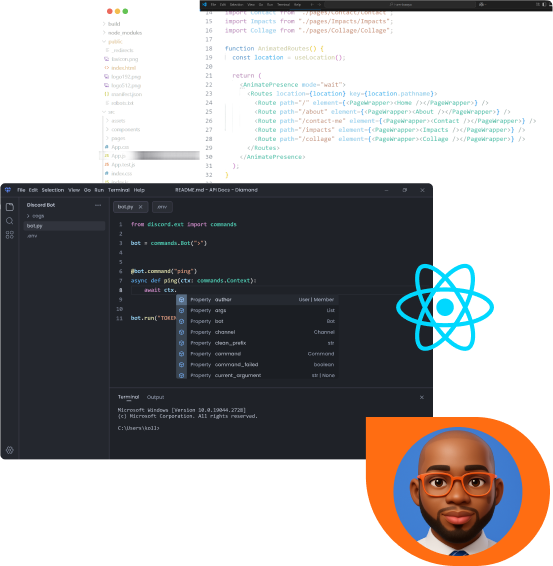
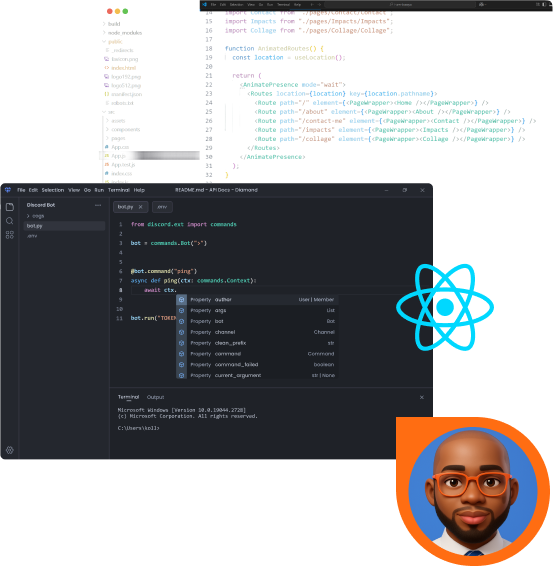
adjusted section 1

Changed region(s): [[0.6456, 0.7208, 0.9837, 1.0]]

diff --git a/src/components/HomeComponents/Section1/Section1.jsx b/src/components/HomeComponents/Section1/Section1.jsx
@@ -48,9 +48,9 @@ export default function Home() {
 
   return (
     // <div className="fixed top-0 left-0 w-full h-screen z-0">
-    <div className="w-full h-screen z-0">
-        <div className={style.section}>
-            <div className={`${style.rippleBackground} bg-[url('/public/bggg-m2.png')] md:bg-[url('/public/bggg.png')] px-4 lg:px-20`} ref={rippleRef}>
+    <div className={`${style.rippleBackground} w-full bg-[url('/public/bggg-m2.png')] lg:bg-[url('/public/bggg.png')] min-h-screen px-4 lg:px-20 z-0 bg-slate-400`} ref={rippleRef}>
+        <div className={`${style.section}`}>
+            <div  >
               <div className={` relative cursor-pointer flex items-center justify-center pt-36` } >
                 <div className={`  w-full`}>
                   <div className="-mb-6">
@@ -69,15 +69,16 @@ export default function Home() {
                       exit={{ opacity: 0, y: -10 }}
                       transition={{ duration: 0.5 }}
                       // className="p-4 bg-green-200 rounded"
+                      className="grid place-items-center"
                     >
                       <img className="hidden lg:block w-[70px] md:w-[140px] absolute right-[10px] md:right-[90px] top-96" src={Profile} alt="" />
-                      <img className=" block lg:hidden w-[140px] absolute top-72 left-1/2 transform -translate-x-1/2 -translate-y-1/2" src={Profile} alt="" />
-                      <div className="flex items-center justify-center h-screen w-full text-white -mt-12 lg:-mt-32 pointer-events-none">
+                      <img className=" block lg:hidden w-[140px] mt-20 " src={Profile} alt="" />
+                      <div className="flex items-center justify-center h-screen w-full text-white -mt-32 lg:-mt-32 pointer-events-none">
                         <div className={`${style.dmSans}  center`}>
-                            {/* <p className={`${style.dmSans} text-center text-xl mb-10 tracking-[6px]`}>Hi, I’m</p> */}
+                            {/* <p className={`${style.dmSans} text-center text-xl mb-2 lg:mb-10 tracking-[6px]`}>Hi, I’m</p> */}
                             {/* <h1 className="mb-4 text-center text-3xl md:text-6xl lg:text-9xl font-semibold italic tracking-[12px] lg:tracking-[28px] leading-[60px] lg:leading-[166px]">AKINBOLADE <br /> SALAKO</h1> */}
-                            <ScrambleText text="Hi, I’m" className={`${style.dmSans} block text-center text-xl mb-10 tracking-[6px]`} speed={120} delay={0.3} duration={5}/><br />
-                            <ScrambleText text="AKINBOLADE" className="mb-4 text-center block text-3xl md:text-6xl lg:text-9xl font-semibold italic tracking-[12px] lg:tracking-[28px] leading-[60px] lg:leading-[166px]" speed={120} delay={0.3} duration={5}/><br />
+                            <ScrambleText text="Hi, I’m" className={`${style.dmSans} block text-center text-xl mb-2 lg:mb-10 tracking-[6px]`} speed={120} delay={0.3} duration={5}/><br />
+                            <ScrambleText text="AKINBOLADE" className="-mb-5 lg:mb-4 text-center block text-3xl md:text-6xl lg:text-9xl font-semibold italic tracking-[12px] lg:tracking-[28px] leading-[60px] lg:leading-[166px]" speed={120} delay={0.3} duration={5}/><br />
                             <ScrambleText text="SALAKO" className="mb-4 text-center block text-3xl md:text-6xl lg:text-9xl font-semibold italic tracking-[12px] lg:tracking-[28px] leading-[60px] lg:leading-[166px]"speed={120}  delay={0.3} duration={2}/>
                             <p className="mb-4 text-center tracking-[4px] font-medium opacity-25">Or just <span className="font-semibold text-[#92FF90]">Salaks</span> for short</p>
                             <p className="mb-4 text-center tracking-[4px]">A <span className="text-xl text-[#FF9C12] font-extrabold">PRODUCT DESIGNER</span> turning complex ideas into simple, intuitive experiences.</p>
@@ -94,7 +95,7 @@ export default function Home() {
                       // className="p-4 bg-red-200 rounded"
                     >
                       <div className="mt-12">
-                        <div className="grid grid-cols-1 md:grid-cols-11 gap-4 items-center">
+                        <div className="grid grid-cols-1 md:grid-cols-11 gap-4 items-center mb-20">
                           {/* Right section: comes first on mobile, right side on desktop */}
                           <div className="order-1 md:order-2 md:col-span-4">
                             <div className="">
@@ -105,32 +106,68 @@ export default function Home() {
                           {/* Left section: comes second on mobile, left side on desktop */}
                           <div className="order-2 md:order-1 md:col-span-7">
                             <div className="flex justify-start items-start font-bold">
-                              <div className={`${style.sourceCode} text-left`}>
-                                <ScrambleText text="Hi!" className={`${style.sourceCode} text-[#FFE11D] block text-left text-3xl mb-0 tracking-[2px]`} speed={120} delay={0.3} duration={5}/><br />
+                              {/* For Large screen */}
+                              <div className={`${style.sourceCode} hidden lg:block text-left text-sm  lg:text-3xl`}>
+                                <ScrambleText text="Hi!" className={`${style.sourceCode} text-[#FFE11D] block text-left  mb-0 tracking-[2px]`} speed={120} delay={0.3} duration={5}/><br />
                                 <div className="flex">
-                                  <ScrambleText text="I'm {" className={`${style.sourceCode} text-[#ffffff] block text-center text-3xl mb-0 tracking-[2px]`} speed={120} delay={0.3} duration={5}/><br />
-                                  <ScrambleText text="highly_technical" className={`${style.sourceCode} text-[#4b8de9] block text-center text-3xl mb-0 tracking-[2px]`} speed={120} delay={0.3} duration={5}/><br />
-                                  <ScrambleText text="} and" className={`${style.sourceCode} text-[#ffffff] block text-center text-3xl mb-0 tracking-[2px]`} speed={120} delay={0.3} duration={5}/><br />
+                                  <ScrambleText text="I'm {" className={`${style.sourceCode} text-[#ffffff] block text-center  mb-0 tracking-[2px]`} speed={120} delay={0.3} duration={5}/><br />
+                                  <ScrambleText text="highly_technical" className={`${style.sourceCode} text-[#4b8de9] block text-center  mb-0 tracking-[2px]`} speed={120} delay={0.3} duration={5}/><br />
+                                  <ScrambleText text="}, and" className={`${style.sourceCode} text-[#ffffff] block text-center  mb-0 tracking-[2px]`} speed={120} delay={0.3} duration={5}/><br />
                                 </div>
                                 <div className="flex mt-2">
-                                  <ScrambleText text="while (" className={`${style.sourceCode} text-[#ffffff] block text-center text-3xl mb-0 tracking-[2px]`} speed={120} delay={0.3} duration={5}/><br />
-                                  <ScrambleText text="I’m ≠ engineer" className={`${style.sourceCode} text-[#D218DC] block text-center text-3xl mb-0 tracking-[2px]`} speed={120} delay={0.3} duration={5}/><br />
-                                  <ScrambleText text="), I know my way /" className={`${style.sourceCode} text-[#ffffff] block text-center text-3xl mb-0 tracking-[2px]`} speed={120} delay={0.3} duration={5}/><br />
+                                  <ScrambleText text="while (" className={`${style.sourceCode} text-[#ffffff] whitespace-nowrap block text-center  mb-0 tracking-[2px]`} speed={120} delay={0.3} duration={5}/><br />
+                                  <ScrambleText text="I’m ≠ engineer" className={`${style.sourceCode} text-[#D218DC] whitespace-nowrap block text-center  mb-0 tracking-[2px]`} speed={120} delay={0.3} duration={5}/><br />
+                                  <ScrambleText text="), I know my way /" className={`${style.sourceCode} text-[#ffffff]  block text-center  mb-0 tracking-[2px]`} speed={120} delay={0.3} duration={5}/><br />
                                 </div>
-                                <div className="flex mt-2">
-                                  <ScrambleText text="around && speak “" className={`${style.sourceCode} text-[#ffffff] block text-center text-3xl mb-0 tracking-[2px]`} speed={120} delay={0.3} duration={5}/><br />
-                                  <ScrambleText text="dev" className={`${style.sourceCode} text-[#FFE11D] block text-center text-3xl mb-0 tracking-[2px]`} speed={120} delay={0.3} duration={5}/><br />
-                                  <ScrambleText text="” fluently." className={`${style.sourceCode} text-[#ffffff] block text-center text-3xl mb-0 tracking-[2px]`} speed={120} delay={0.3} duration={5}/><br />
+                                <div className="flex mt-2 ">
+                                  <ScrambleText text="around && speak “" className={`${style.sourceCode} text-[#ffffff] block text-center  mb-0 tracking-[2px]`} speed={120} delay={0.3} duration={5}/><br />
+                                  <ScrambleText text="dev" className={`${style.sourceCode} text-[#FFE11D] block text-center  mb-0 tracking-[2px]`} speed={120} delay={0.3} duration={5}/><br />
+                                  <ScrambleText text="” fluently." className={`${style.sourceCode} text-[#ffffff] block text-center  mb-0 tracking-[2px]`} speed={120} delay={0.3} duration={5}/><br />
                                 </div>
-                                <ScrambleText text="I use Figma, Notion, and front-end " className={`${style.sourceCode} mt-1 text-[#FFFFFF] block text-left text-3xl mb-0 tracking-[2px]`} speed={120} delay={0.3} duration={5}/><br />
+                                <ScrambleText text="I use Figma, Notion, and front-end " className={`${style.sourceCode} mt-1 text-[#FFFFFF] block text-left  mb-0 tracking-[2px]`} speed={120} delay={0.3} duration={5}/><br />
                                 <div className="flex -mt-3">
-                                  <ScrambleText text="(React) " className={`${style.sourceCode} text-[#737374] block text-center text-3xl mb-0 tracking-[2px]`} speed={120} delay={0.3} duration={5}/><br />
-                                  <ScrambleText text=" - with ease." className={`${style.sourceCode} text-[#ffffff] block text-center text-3xl mb-0 tracking-[2px]`} speed={120} delay={0.3} duration={5}/><br />
+                                  <ScrambleText text="(React) " className={`${style.sourceCode} text-[#737374] block text-center  mb-0 tracking-[2px]`} speed={120} delay={0.3} duration={5}/><br />
+                                  <ScrambleText text=" - with ease." className={`${style.sourceCode} text-[#ffffff] block text-center  mb-0 tracking-[2px]`} speed={120} delay={0.3} duration={5}/><br />
                                 </div>
                                 <div className="flex mt-8">
-                                  <ScrambleText text="I designed & Developed (" className={`${style.sourceCode} text-[#ffffff] block text-center text-3xl mb-0 tracking-[2px]`} speed={120} delay={0.3} duration={5}/><br />
-                                  <ScrambleText text="this.site" className={`${style.sourceCode} text-[#22D71C] block text-center text-3xl mb-0 tracking-[2px]`} speed={120} delay={0.3} duration={5}/><br />
-                                  <ScrambleText text="too 😄" className={`${style.sourceCode} text-[#ffffff] block text-center text-3xl mb-0 tracking-[2px]`} speed={120} delay={0.3} duration={5}/><br />
+                                  <ScrambleText text="I designed & Developed (" className={`${style.sourceCode} text-[#ffffff] whitespace-nowrap block text-center  mb-0 tracking-[2px]`} speed={120} delay={0.3} duration={5}/><br />
+                                  <ScrambleText text="this.site" className={`${style.sourceCode} text-[#22D71C] block text-center  mb-0 tracking-[2px]`} speed={120} delay={0.3} duration={5}/><br />
+                                  <ScrambleText text=") too 😄" className={`${style.sourceCode} text-[#ffffff] block text-center  mb-0 tracking-[2px]`} speed={120} delay={0.3} duration={5}/><br />
+                                </div>
+                              </div>
+
+                              {/* For Mobile */}
+                              <div className={`${style.sourceCode} block lg:hidden text-left text-xl  lg:text-3xl`}>
+                                <ScrambleText text="Hi!" className={`${style.sourceCode} text-[#FFE11D] block text-left  mb-0 tracking-[2px]`} speed={120} delay={0.3} duration={5}/><br />
+                                <div className="flex">
+                                  <ScrambleText text="I'm {" className={`${style.sourceCode} text-[#ffffff] block text-center  mb-0 tracking-[2px]`} speed={120} delay={0.3} duration={5}/><br />
+                                  <ScrambleText text="highly_technical" className={`${style.sourceCode} text-[#4b8de9] block text-center  mb-0 tracking-[2px]`} speed={120} delay={0.3} duration={5}/><br />
+                                  <ScrambleText text="}, " className={`${style.sourceCode} text-[#ffffff] block text-left  mb-0 tracking-[2px]`} speed={120} delay={0.3} duration={5}/><br />
+                                </div>
+                                  <ScrambleText text="and" className={`${style.sourceCode} text-[#ffffff] block text-left  mb-0 tracking-[2px]`} speed={120} delay={0.3} duration={5}/><br />
+                                <div className="flex mt-2">
+                                  <ScrambleText text="while (" className={`${style.sourceCode} text-[#ffffff] whitespace-nowrap block text-center  mb-0 tracking-[2px]`} speed={120} delay={0.3} duration={5}/><br />
+                                  <ScrambleText text="I’m ≠ engineer" className={`${style.sourceCode} text-[#D218DC] whitespace-nowrap block text-center  mb-0 tracking-[2px]`} speed={120} delay={0.3} duration={5}/><br />
+                                  <ScrambleText text="), " className={`${style.sourceCode} text-[#ffffff]  block text-center  mb-0 tracking-[2px]`} speed={120} delay={0.3} duration={5}/><br />
+                                </div>
+                                  <ScrambleText text="I know my way /" className={`${style.sourceCode} text-[#ffffff]  block text-left  mb-0 tracking-[2px]`} speed={120} delay={0.3} duration={5}/><br />
+                                <div className="flex mt-2 ">
+                                  <ScrambleText text="around && speak “" className={`${style.sourceCode} text-[#ffffff] block text-center  mb-0 tracking-[2px]`} speed={120} delay={0.3} duration={5}/><br />
+                                  <ScrambleText text="dev" className={`${style.sourceCode} text-[#FFE11D] block text-center  mb-0 tracking-[2px]`} speed={120} delay={0.3} duration={5}/><br />
+                                  <ScrambleText text="”." className={`${style.sourceCode} text-[#ffffff] block text-center  mb-0 tracking-[2px]`} speed={120} delay={0.3} duration={5}/><br />
+                                </div>
+                                  <ScrambleText text="Fluently." className={`${style.sourceCode} text-[#ffffff] block text-left  mb-0 tracking-[2px]`} speed={120} delay={0.3} duration={5}/><br />
+                                <ScrambleText text="I use Figma, Notion, and  " className={`${style.sourceCode} mt-1 text-[#FFFFFF] block text-left  mb-0 tracking-[2px]`} speed={120} delay={0.3} duration={5}/><br />
+                                <div className="flex -mt-3">
+                                  <ScrambleText text=" front-end " className={`${style.sourceCode} mt-1 text-[#FFFFFF] block text-left  mb-0 tracking-[2px]`} speed={120} delay={0.3} duration={5}/><br />
+                                  <ScrambleText text="(React) " className={`${style.sourceCode} text-[#737374] block text-center  mb-0 tracking-[2px]`} speed={120} delay={0.3} duration={5}/><br />
+                                </div>
+                                  <ScrambleText text=" - with ease." className={`${style.sourceCode} text-[#ffffff] block text-left  mb-0 tracking-[2px]`} speed={120} delay={0.3} duration={5}/><br />
+                                  <ScrambleText text="I designed & Developed " className={`${style.sourceCode} text-[#ffffff] whitespace-nowrap block text-center  mb-0 tracking-[2px]`} speed={120} delay={0.3} duration={5}/><br />
+                                <div className="flex mt-8">
+                                  <ScrambleText text="(" className={`${style.sourceCode} text-[#ffffff] whitespace-nowrap block text-center  mb-0 tracking-[2px]`} speed={120} delay={0.3} duration={5}/><br />
+                                  <ScrambleText text="this.site" className={`${style.sourceCode} text-[#22D71C] block text-center  mb-0 tracking-[2px]`} speed={120} delay={0.3} duration={5}/><br />
+                                  <ScrambleText text=") too 😄" className={`${style.sourceCode} text-[#ffffff] block text-center  mb-0 tracking-[2px]`} speed={120} delay={0.3} duration={5}/><br />
                                 </div>
                               </div>
                             </div>

diff --git a/src/components/HomeComponents/Section1/Section1.module.css b/src/components/HomeComponents/Section1/Section1.module.css
@@ -1,6 +1,7 @@
 .section {
     
-  height: 100vh;
+  /* height: 100vh; */
+  height: auto;
   margin: 0;
   overflow: hidden;
 }

diff --git a/src/components/Header/Header.module.css b/src/components/Header/Header.module.css
@@ -22,3 +22,8 @@
   pointer-events: none;
   z-index: 1;
 }
+
+
+.dmSans {
+  font-family: "DM Sans", sans-serif;
+}
